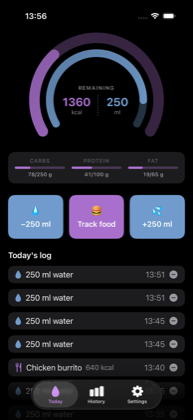
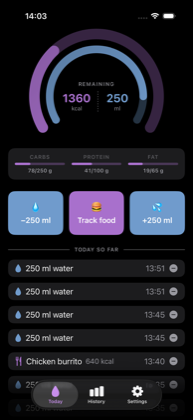
Pin the controls and scroll only the log
The gauge, macro panel and buttons no longer scroll; only the log below them
does, so the controls stay reachable however long the day gets.

Replaces the "Today's log" heading with a rule carrying TODAY SO FAR set into
the middle of it. The caption is fixedSize so the rules absorb the layout
rather than the text compressing.

diff --git a/HydroHomie/Views/TodayView.swift b/HydroHomie/Views/TodayView.swift
@@ -46,28 +46,32 @@ struct TodayView: View {
     // No NavigationStack: the screen carries no title or bar buttons, so a nav bar
     // would only cost vertical space.
     var body: some View {
-        ScrollView {
-            VStack(spacing: 24) {
-                rings
-                MacroPanel(
-                    totals: HydrationStore.macros(of: todaysFood),
-                    carbsGoal: settings.dailyCarbsGoal,
-                    proteinGoal: settings.dailyProteinGoal,
-                    fatGoal: settings.dailyFatGoal
-                )
-                TodayActionRow(
-                    unit: unit,
-                    incrementML: settings.waterIncrementML,
-                    canRemove: !todaysDrinks.isEmpty,
-                    onRemove: removeLastWater,
-                    onTrackFood: {},          // Food entry is not designed yet.
-                    onAdd: { add(settings.waterIncrementML) },
-                    onCustomAmount: { showingCustomAmount = true }
-                )
-                todaysLog
+        // Only the log scrolls — the gauge, macros and buttons are pinned, so the
+        // controls stay reachable however long the day's log gets.
+        VStack(spacing: 24) {
+            rings
+            MacroPanel(
+                totals: HydrationStore.macros(of: todaysFood),
+                carbsGoal: settings.dailyCarbsGoal,
+                proteinGoal: settings.dailyProteinGoal,
+                fatGoal: settings.dailyFatGoal
+            )
+            TodayActionRow(
+                unit: unit,
+                incrementML: settings.waterIncrementML,
+                canRemove: !todaysDrinks.isEmpty,
+                onRemove: removeLastWater,
+                onTrackFood: {},          // Food entry is not designed yet.
+                onAdd: { add(settings.waterIncrementML) },
+                onCustomAmount: { showingCustomAmount = true }
+            )
+            VStack(spacing: 14) {
+                logHeader
+                logList
             }
-            .padding()
         }
+        .padding(.horizontal)
+        .padding(.top, 8)
         .sheet(isPresented: $showingCustomAmount) {
             CustomAmountSheet(unit: unit) { amount in
                 add(amount)
@@ -98,45 +102,66 @@ struct TodayView: View {
 
     // MARK: - Log
 
+    /// A rule with the caption set into the middle of it.
+    private var logHeader: some View {
+        HStack(spacing: 10) {
+            rule
+            Text("TODAY SO FAR")
+                .font(.caption2.weight(.semibold))
+                .tracking(1.0)
+                .foregroundStyle(.secondary)
+                // Without this the text would be compressed before the rules are.
+                .fixedSize()
+            rule
+        }
+    }
+
+    private var rule: some View {
+        Rectangle()
+            .fill(Color(.systemGray4))
+            .frame(height: 2)
+    }
+
     @ViewBuilder
-    private var todaysLog: some View {
+    private var logList: some View {
         if log.isEmpty {
             ContentUnavailableView(
                 "Nothing logged yet",
                 systemImage: "drop",
                 description: Text("Tap an amount above to start tracking today.")
             )
-            .padding(.top, 12)
+            .frame(maxHeight: .infinity)
         } else {
-            VStack(alignment: .leading, spacing: 12) {
-                Text("Today's log")
-                    .font(.headline)
-                ForEach(log) { item in
-                    switch item {
-                    case .water(let entry):
-                        row(
-                            icon: "drop.fill",
-                            tint: .water,
-                            title: "\(unit.format(millilitres: entry.amountML)) water",
-                            detail: nil,
-                            timestamp: entry.timestamp
-                        ) {
-                            HydrationLogger.delete(entry, context: context)
-                        }
-                    case .food(let entry):
-                        row(
-                            icon: "fork.knife",
-                            tint: .accentColor,
-                            title: entry.name,
-                            detail: "\(Int(entry.calories.rounded())) kcal",
-                            timestamp: entry.timestamp
-                        ) {
-                            HydrationLogger.delete(entry, context: context)
+            ScrollView {
+                VStack(spacing: 12) {
+                    ForEach(log) { item in
+                        switch item {
+                        case .water(let entry):
+                            row(
+                                icon: "drop.fill",
+                                tint: .water,
+                                title: "\(unit.format(millilitres: entry.amountML)) water",
+                                detail: nil,
+                                timestamp: entry.timestamp
+                            ) {
+                                HydrationLogger.delete(entry, context: context)
+                            }
+                        case .food(let entry):
+                            row(
+                                icon: "fork.knife",
+                                tint: .accentColor,
+                                title: entry.name,
+                                detail: "\(Int(entry.calories.rounded())) kcal",
+                                timestamp: entry.timestamp
+                            ) {
+                                HydrationLogger.delete(entry, context: context)
+                            }
                         }
                     }
                 }
+                .padding(.bottom, 8)
             }
-            .frame(maxWidth: .infinity, alignment: .leading)
+            .scrollIndicators(.hidden)
         }
     }
 
